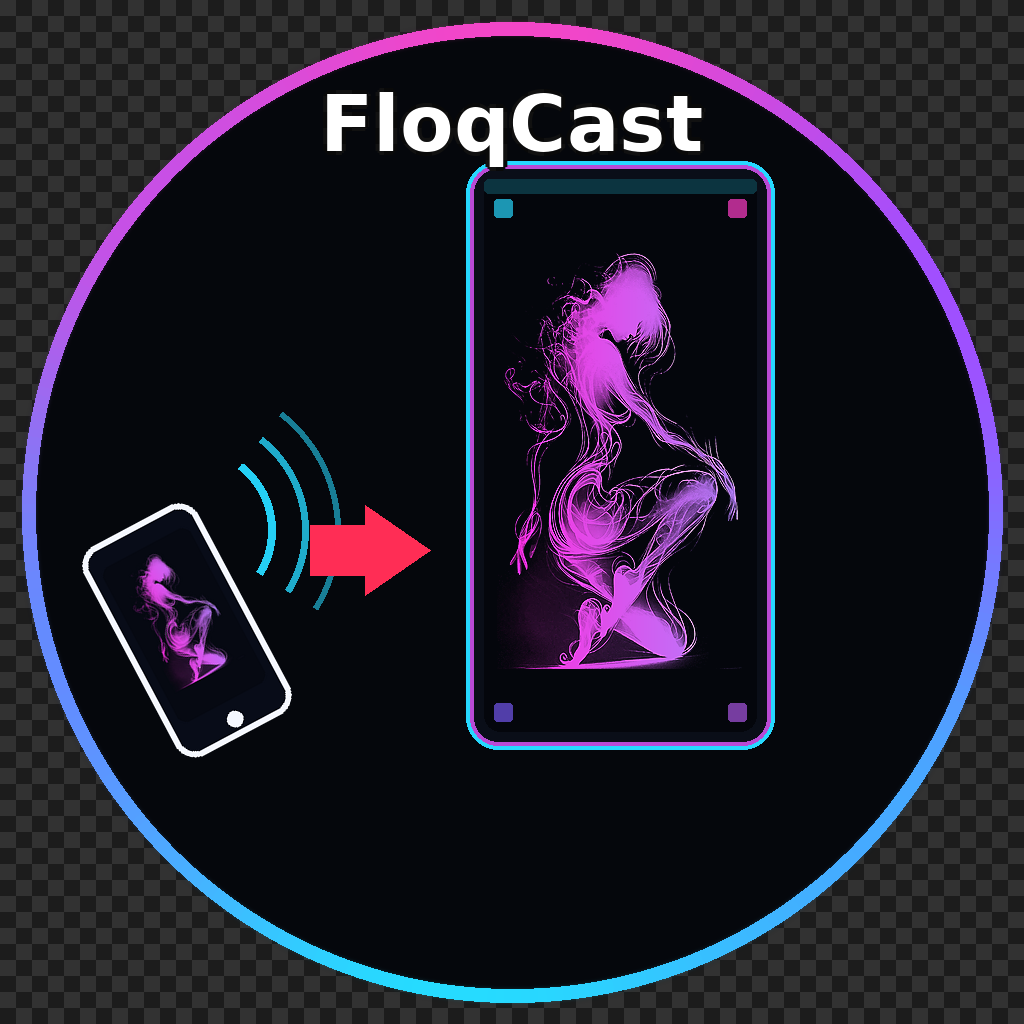
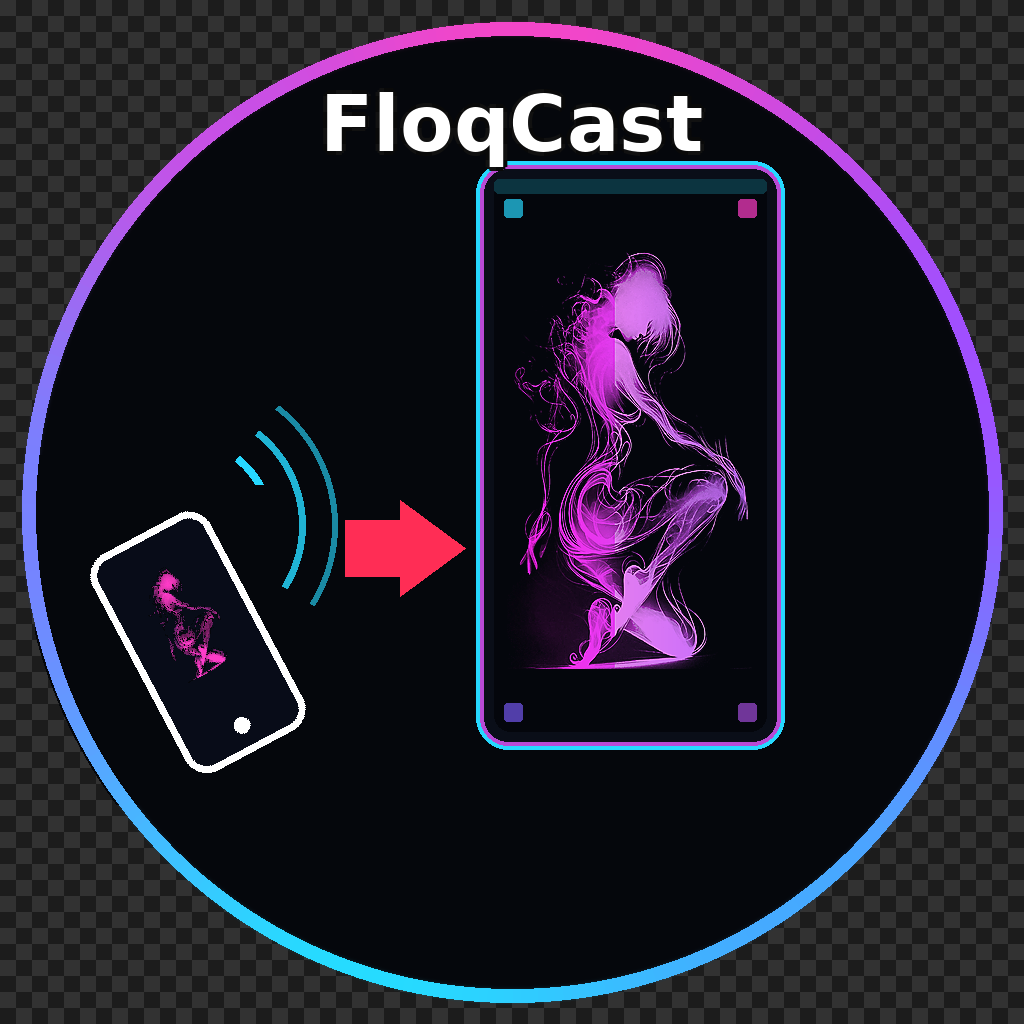
fix: remove FloqCast V4 red dash and phone fringe
Hard-clean stray red above signal arcs; redraw phone with NEAREST
edges and pink-only mini silhouette; keep cast arrow phone→LED.

diff --git a/icon-review-square-green-halo.html b/icon-review-square-green-halo.html
@@ -105,14 +105,14 @@
       <h2>V4 — silhouette photo + cast chrome</h2>
       <p>
         Your silhouette cut out and neon-tinted into the LED + phone screens.
-        Transparent outside the nightlife ring. Portrait LED, arrow phone→LED, smooth transient ring;
-        red dashes and phone green line removed.
+        Transparent outside the nightlife ring. Portrait LED; cast arrow phone→LED;
+        red dash above signals removed; phone green/yellow fringe cleaned (hard refresh if you still see the old mark).
       </p>
       <div class="row">
         <figure class="hero">
           <figcaption>V4 final draft <span class="tag next">silhouette source</span></figcaption>
           <div class="checker">
-            <img src="./images/review/actual-icons/floqcast-v4-circle-silhouette.png" alt="FloqCast V4 silhouette circle"/>
+            <img src="./images/review/actual-icons/floqcast-v4-circle-silhouette.png?v=4d" alt="FloqCast V4 silhouette circle"/>
           </div>
         </figure>
         <figure>
